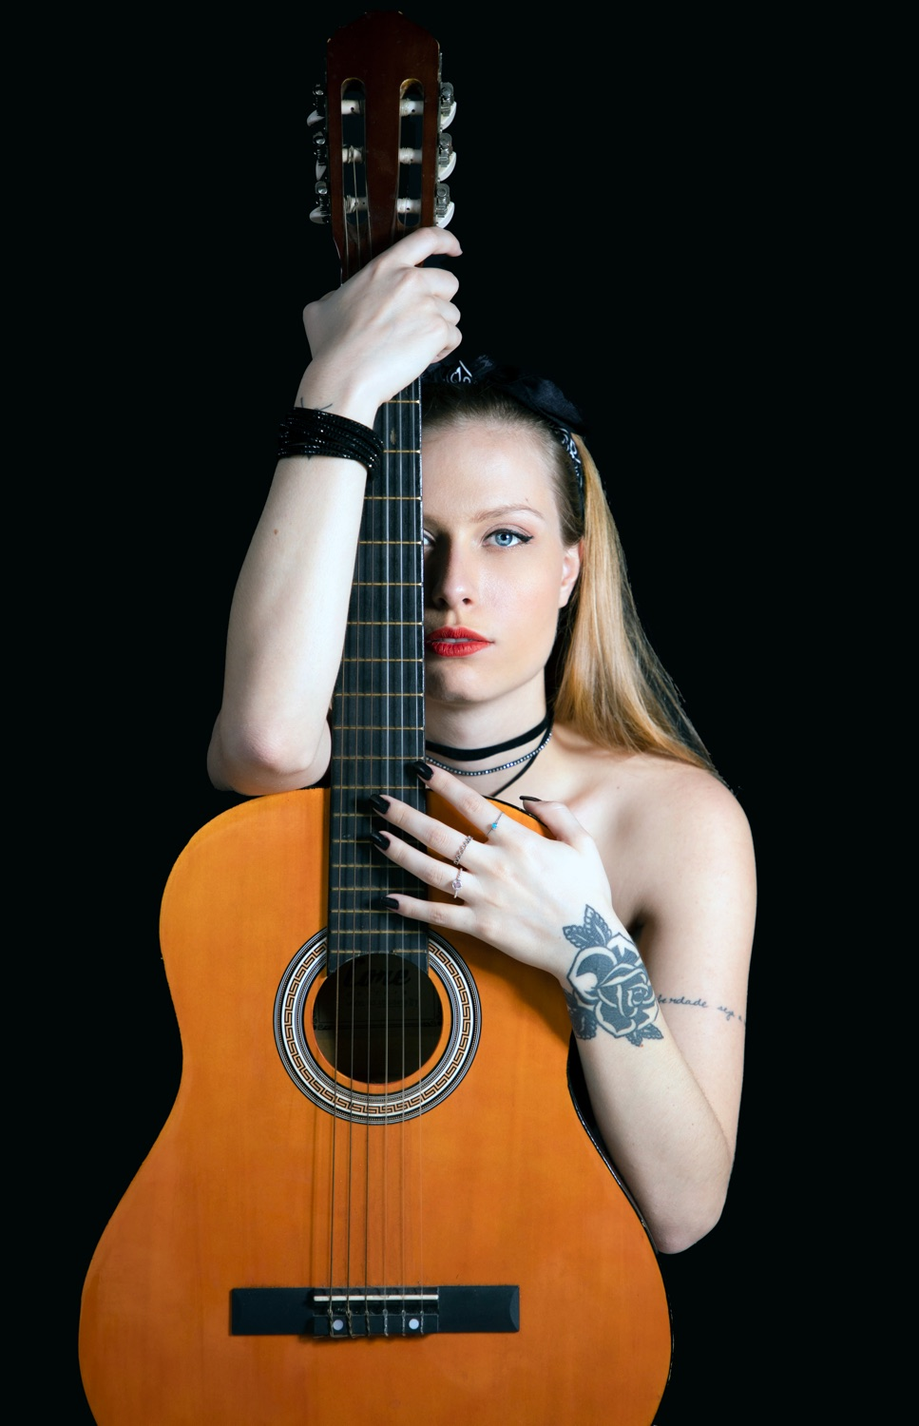
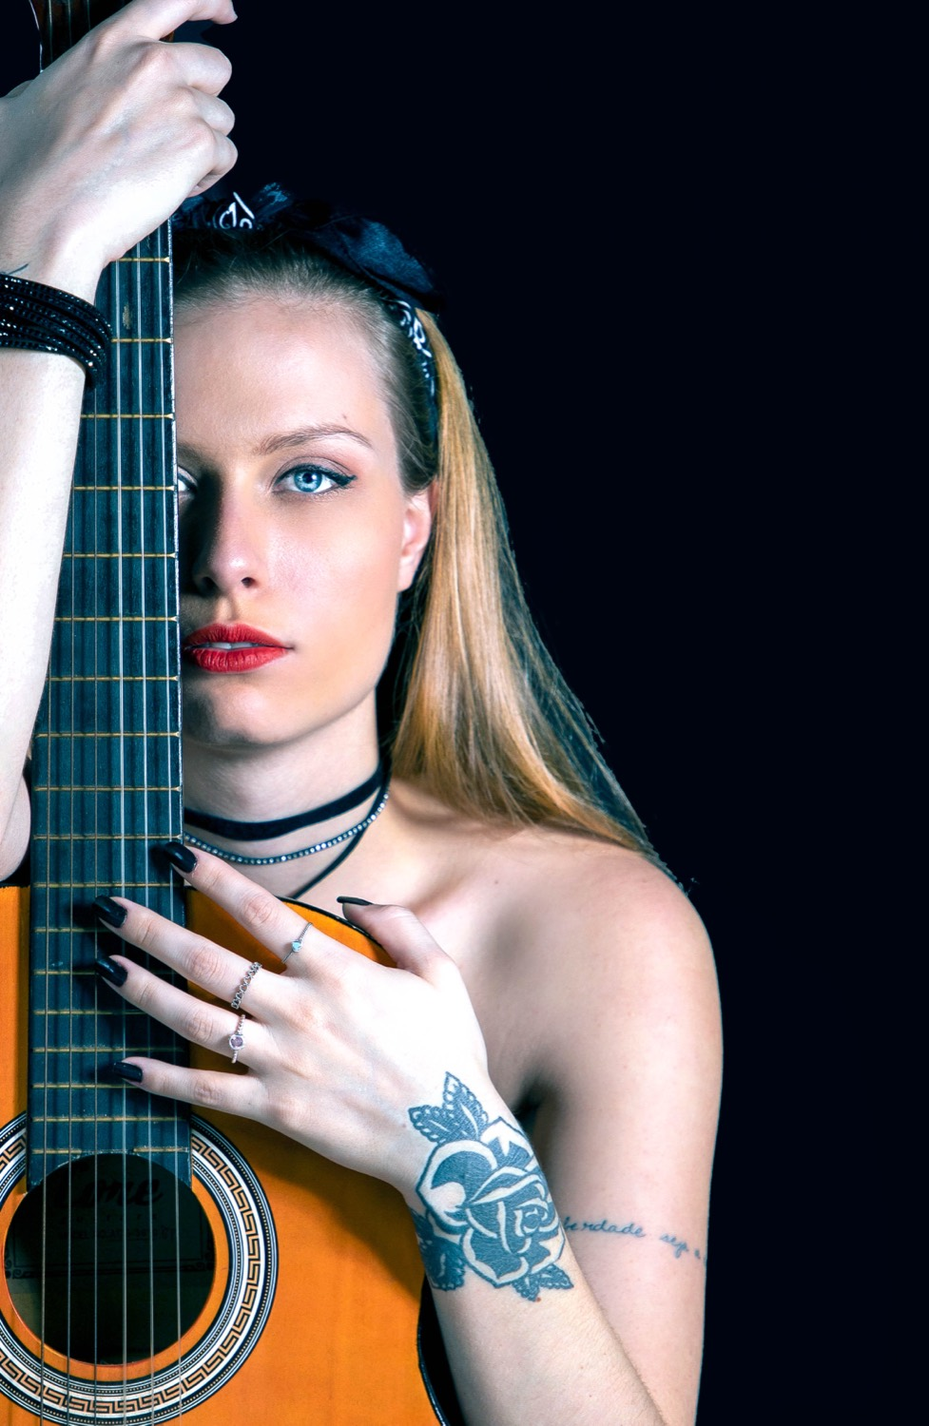
Manual: áudios e fotos do Fábio aplicados
- Abertura "Antes de tudo" reescrita com a história real dele (pai arquiteto,
  faculdade de arquitetura, construção civil, curso e 10+ anos de profissão)
- Estudo de caso do vestido verde: as 4 decisões (reflexo, simetria, linhas, cor)
- Estudo de caso da luz: retrato do Júnior + 4 decisões + Hora de praticar
- Cap. 12: retrato de posicionamento + 4 decisões
- Cap. 13: externa em dia nublado + 4 decisões
- Cap. 5 luz de janela, cap. 6 luz dura e cap. 14 movimento com fotos dele
- Capa nova do manual
- /tecnicas/: exemplos reais em longa exposição, zooming e dupla exposição
- Restam só os 3 blocos de @VIDEO (opcionais)

diff --git a/manual/index.html b/manual/index.html
@@ -23,7 +23,7 @@
 
   /* CAPA */
   .cover{ min-height:88vh; display:flex; flex-direction:column; justify-content:flex-end; padding:40px 22px 56px; position:relative; overflow:hidden;
-    background:linear-gradient(180deg,rgba(11,17,28,.35),rgba(11,17,28,.45) 40%,rgba(11,17,28,.92)),url('/img/cover.jpg'); background-size:cover; background-position:50% 22%; }
+    background:linear-gradient(180deg,rgba(11,17,28,.35),rgba(11,17,28,.45) 40%,rgba(11,17,28,.92)),url('/img/capa-manual.jpg'); background-size:cover; background-position:50% 32%; }
   .cover .in{ max-width:760px; margin:0 auto; width:100%; }
   .cover .eyebrow{ font-size:11px;letter-spacing:.3em;text-transform:uppercase;color:var(--gold) }
   .cover h1{ font-family:'Cormorant Garamond',serif; font-weight:500; font-size:clamp(27px,6.4vw,60px); line-height:1.06; color:#fff; margin:14px 0 0; padding-right:6px }
@@ -147,17 +147,20 @@
       <h1>O Manual Que Não<br>Veio na Caixa</h1>
       <div class="sub">Aprender a ver, antes de aprender a fotografar</div>
       <div class="by"><b>Fábio Dombrate</b> · Elegância com propósito.</div>
-      <div class="rt">18 min de leitura &nbsp;·&nbsp; role para começar ↓</div>
+      <div class="rt">20 min de leitura &nbsp;·&nbsp; role para começar ↓</div>
     </div>
   </header>
 
-  <div class="rwrap front"><p><em>Fábio, este é o ebook tomando forma. Onde aparecer um bloco tracejado, falta algo seu: um áudio, um vídeo ou uma foto. É só me mandar que a gente encaixa, e o bloco vira o conteúdo real, na sua voz.</em></p>
+  <div class="rwrap front"><p><em>Fábio, os teus áudios e as tuas fotos já estão dentro. Os blocos tracejados que sobraram são só os vídeos, que são opcionais e entram quando você quiser gravar.</em></p>
 <h2 class="plain">Antes de tudo</h2>
-<div class="slot audio"><div class="slot-l"><span class="ic">🎙</span> Áudio do Fábio · <em>falta você</em></div><p>me manda um áudio de ~3 min contando a sua história: por que fotografia, o olhar do seu pai, o que fotografar significa pra você. A carta abaixo é um rascunho meu; com o seu áudio ela vira a sua história de verdade.</p></div>
 <p>Toda câmera vem com um manual na caixa. Aquele livrinho de tabelas e siglas que ninguém lê até o fim, e que ensina onde ficam os botões sem nunca explicar a única coisa que importa: <strong>como enxergar</strong>.</p>
 <p>Este é o outro manual. O que não veio na caixa.</p>
 <p>Ele não vai te transformar em fotógrafo porque nenhum livro faz isso. Mas vai te entregar o que quase ninguém te conta no começo, que fotografar é, antes de qualquer coisa, um jeito de olhar o mundo. A câmera é só a ferramenta. O olhar é seu.</p>
-<p>Eu demorei anos pra entender isso. Comprei equipamento, troquei de câmera, li ficha técnica como quem procura um atalho. As fotos continuavam sem alma. Até o dia em que percebi que o problema nunca esteve na câmera. Estava em mim, que ainda não tinha aprendido a ver.</p>
+<p>Comigo isso começou cedo. Meu pai era arquiteto e tinha uma veia artística muito forte. O mundo dele era cercado de beleza, estética e arte, e eu cresci no meio disso. Ele me levava a encontros e exposições, e um dos hobbies dele era justamente a fotografia. Eu adorava pegar a câmera dele, brincar, olhar pelo visor. Aquilo me fascinava, e acho que foi ali, sem eu perceber, que a fotografia entrou na minha vida.</p>
+<p>Talvez por influência dele, acabei entrando na faculdade de arquitetura. Eu gostava daquele universo, mas entre todas as matérias teve uma que me chamou a atenção de um jeito diferente: fotografia. Era onde eu me sentia em casa. Adorava fazer os trabalhos, sair para fotografar, e percebia que aquilo despertava em mim algo que nenhuma outra matéria despertava.</p>
+<p>Mesmo assim, a vida me levou por outro caminho. Trabalhei muitos anos com construção civil, seguindo carreira e construindo a minha vida, mas com a sensação de que faltava alguma coisa. Até o dia em que resolvi comprar uma câmera e me matricular num curso profissional de fotografia. Foi aí que tudo começou a mudar. Quanto mais eu fotografava, mais aquela paixão crescia, até chegar o momento em que eu não queria mais que a fotografia fosse apenas um hobby. Eu queria que ela fosse o meu caminho. E foi isso que eu fiz.</p>
+<p>Hoje, depois de mais de dez anos fotografando profissionalmente, a fotografia faz parte de quem eu sou. O mais bonito é que eu ainda sinto a mesma curiosidade de quando pegava a câmera do meu pai. Ainda quero aprender, experimentar, criar, descobrir novas formas de fotografar e, principalmente, novas formas de olhar.</p>
+<p>Talvez seja justamente isso que mais me encanta. Porque não importa quantos anos se passem, sempre existe uma nova forma de olhar.</p>
 <p>Fotografia, pra mim, é eternizar o presente. É guardar a beleza do meu tempo e mostrar às próximas gerações como era o meu olhar sobre o mundo. Se este livro fizer você se apaixonar por isso, ele cumpriu o que veio fazer.</p>
 <p>Vamos aprender a ver.</p>
 <p><em>Fábio</em></p>
@@ -194,21 +197,25 @@
 <hr>
 <h2 class="plain">Estudo de caso: o olhar</h2>
 <p>Antes de mudar de parte, um exemplo de verdade. Uma foto minha, e as decisões por trás dela.</p>
-<figure><img loading="lazy" src="/img/arqvestido.jpg" alt="O vestido verde: linhas, reflexo e simetria conduzindo o olhar."><figcaption>O vestido verde: linhas, reflexo e simetria conduzindo o olhar.</figcaption></figure>
-<div class="slot audio"><div class="slot-l"><span class="ic">🎙</span> Áudio do Fábio · <em>falta você</em></div><p>me conta as 4 decisões dessa foto (o vestido verde): a intenção (o que você queria dizer), a luz, o momento que você esperou, e a decisão que fez a diferença.</p></div>
-<p class="prov">"Nesta foto eu queria transmitir [intenção]. Usei as linhas do lugar para conduzir o olho até ela, e esperei o instante em que [o momento]. A decisão que mudou tudo foi [a decisão]."</p>
+<figure><img loading="lazy" src="/img/arqvestido.jpg" alt="O vestido verde: reflexo, linhas e cor conduzindo o olhar."><figcaption>O vestido verde: reflexo, linhas e cor conduzindo o olhar.</figcaption></figure>
+<p><strong>O reflexo.</strong> Em vez de fotografar a modelo apenas contra o prédio, posicionei a câmera para que o vidro criasse uma segunda versão dela. O reflexo deixa de ser fundo e passa a fazer parte da fotografia.</p>
+<p><strong>A simetria sem centralizar.</strong> Usei as linhas verticais da arquitetura e a divisão do vidro para criar equilíbrio entre a modelo e o reflexo. Isso organiza a imagem sem cair na simetria óbvia demais.</p>
+<p><strong>As linhas conduzindo o olho.</strong> As linhas do piso, do vidro e da fachada criam profundidade e levam o olhar até ela. O cenário não está ali por acaso, ele direciona a leitura da foto.</p>
+<p><strong>A cor.</strong> Escolhi o enquadramento pensando também no contraste. O verde do vestido ganha força contra os tons neutros e frios do vidro, do concreto e do metal, e é isso que faz a modelo se destacar num cenário cheio de informação.</p>
+<p>Nenhuma dessas quatro decisões tem a ver com a câmera. Todas têm a ver com o que eu escolhi ver antes de disparar.</p>
 <hr></div><section class="popen" style="background-image:linear-gradient(180deg,rgba(11,17,28,.35),rgba(11,17,28,.85)),url('/img/elegante.jpg')">
       <div class="po-in"><div class="po-eye">Parte 2</div><h1 class="po-t">A luz como matéria-prima</h1><p class="po-l">Se o olhar decide o que fotografar, a luz decide como. Este é o assunto que eu mais amo, e o que mais transforma uma foto quando você começa a dominá-lo.</p></div></section><div class="rwrap"><h2><span class="cn">5</span>Um estúdio na sua janela</h2>
 <p>Você não precisa de equipamento caro para fazer um retrato bonito. A melhor luz suave que existe provavelmente está na sua sala agora.</p>
 <p>Uma janela grande, sem sol direto batendo, é uma fonte de luz macia e generosa. Envolve o rosto, cria sombra delicada, valoriza a pele. É praticamente um estúdio que não custou nada.</p>
 <p>Posicione a pessoa de lado para a janela, não de frente. A luz vem de um lado, o outro fica numa sombra suave, e isso cria volume, aquele ar de profundidade. Se a sombra ficou escura demais, ponha algo branco do outro lado, uma cartolina, uma parede clara, para devolver um pouco de luz.</p>
 <p class="convite"><strong>Hora de praticar.</strong> Sente alguém de lado para uma janela iluminada. Fotografe. Depois ponha uma cartolina branca do lado escuro do rosto e fotografe de novo. A segunda foto tem a sombra mais viva. Isso é iluminação de estúdio, feita com o que você tem em casa.</p>
-<figure><img loading="lazy" src="/img/business.jpg" alt="Luz de janela, de lado. Um estúdio que não custou nada."><figcaption>Luz de janela, de lado. Um estúdio que não custou nada.</figcaption></figure>
+<figure><img loading="lazy" src="/img/luz-janela.jpg" alt="Luz de janela, de lado. Um estúdio que não custou nada."><figcaption>Luz de janela, de lado. Um estúdio que não custou nada.</figcaption></figure>
 <div class="slot video"><div class="slot-l"><span class="ic">🎥</span> Vídeo do Fábio · <em>falta você</em></div><p>se rolar, grava um mini-tutorial de 2-3 min montando a luz de janela com um rebatedor. Entra aqui no ebook e já vira aula do teu curso.</p></div>
 <h2><span class="cn">6</span>A hora certa do dia</h2>
 <p>A luz das primeiras e das últimas horas do dia, a hora dourada, é baixa, quente e macia. É a luz preferida de quase todo fotógrafo, e não por acaso.</p>
 <p>O meio-dia, com o sol a pino, é o oposto: luz alta e dura, que cava olheiras e estoura os realces da pele. Se você pode escolher a hora, prefira o fim da tarde. Se não pode, procure uma sombra aberta, embaixo de um toldo ou de uma árvore, e ganhe uma luz mais difusa de graça.</p>
 <p>Mas isso não significa que a luz dura seja ruim. Ela só precisa ser usada com intenção. É uma luz que cria sombras marcadas, muito contraste, textura e sensação de volume. Funciona muito bem em fotografia de arquitetura, preto e branco, ensaios mais dramáticos e até para destacar definição muscular. Na fotografia, não existe apenas luz boa ou ruim. Existe a luz certa para o resultado que você quer criar.</p>
+<figure><img loading="lazy" src="/img/pb-luzdura.jpg" alt="Luz dura, preto e branco e sombra marcada. A mesma luz que atrapalha um retrato suave é a que constrói este."><figcaption>Luz dura, preto e branco e sombra marcada. A mesma luz que atrapalha um retrato suave é a que constrói este.</figcaption></figure>
 <p>Reparar na hora do dia é entender a luz antes que ela vire um problema e saber transformá-la em solução. É a diferença entre a foto que aconteceu com você e a foto que você escolheu.</p>
 <blockquote class="pullq">Fotógrafo bom não briga com a luz. Ele escolhe.</blockquote>
 <h2><span class="cn">7</span>Uma luz só</h2>
@@ -218,10 +225,12 @@
 <hr>
 <h2 class="plain">Estudo de caso: a luz num retrato</h2>
 <p>O formato mais forte do livro: eu destrincho a luz de um retrato meu, decisão por decisão, e depois você repete na sua câmera.</p>
-<div class="slot foto"><div class="slot-l"><span class="ic">🖼</span> Foto do Fábio · <em>falta você</em></div><p>o retrato do Júnior (escolhido pelo Fábio). Falta só o arquivo em alta resolução.</p></div>
-<div class="slot audio"><div class="slot-l"><span class="ic">🎙</span> Áudio do Fábio · <em>falta você</em></div><p>as 4 decisões do retrato do Júnior: a intenção, de onde veio a luz e por que uma fonte só, a sombra que você deixou de propósito, e o gesto que você esperou.</p></div>
-<p class="prov">"Eu queria que ele parecesse [intenção]. Uma luz só, vindo do lado, porque a sombra é o que dá volume. Deixei metade do rosto na sombra de propósito, e esperei ele [o gesto]."</p>
-<p>A receita prática (ajustes da câmera + esquema de luz desenhado) entra logo depois do seu relato. Essa parte eu monto.</p>
+<figure><img loading="lazy" src="/img/retrato-junior.jpg" alt="O retrato do Júnior: uma luz de lado, a sombra mantida e o fundo entregue à escuridão."><figcaption>O retrato do Júnior: uma luz de lado, a sombra mantida e o fundo entregue à escuridão.</figcaption></figure>
+<p><strong>Luz lateral.</strong> Posicionei a luz de lado para criar volume e destacar os traços do rosto. De frente, o rosto achata. De lado, ele ganha relevo.</p>
+<p><strong>Sombras mantidas.</strong> Não tentei preencher a sombra. Mantive para aumentar o contraste e dar mais profundidade ao retrato. Meio rosto no escuro aqui é escolha, não erro.</p>
+<p><strong>Fundo escuro.</strong> Escolhi um fundo preto para eliminar distrações e concentrar toda a atenção no rosto.</p>
+<p><strong>Close.</strong> Aproximei o enquadramento para valorizar o olhar, a expressão e a textura.</p>
+<p class="convite"><strong>Hora de praticar.</strong> Apague as luzes do ambiente e acenda uma fonte só, de lado, perto do rosto. Afaste a pessoa da parede, para o fundo cair na escuridão sozinho. Fotografe o rosto inteiro, depois chegue mais perto e fotografe só o olhar. Compare as duas e veja o que o close fez com a expressão.</p>
 <hr></div><section class="popen" style="background-image:linear-gradient(180deg,rgba(11,17,28,.35),rgba(11,17,28,.85)),url('/img/contempla.jpg')">
       <div class="po-in"><div class="po-eye">Parte 3</div><h1 class="po-t">A câmera a serviço do olhar</h1><p class="po-l">Agora sim, a câmera. Não como protagonista, mas como aliada. Estes são os poucos recursos que, quando você domina, param de atrapalhar e passam a libertar o seu olhar.</p></div></section><div class="rwrap"><h2><span class="cn">8</span>Os três pilares da exposição</h2>
 <p>Toda fotografia começa com luz. Para controlar como essa luz será registrada pela câmera, existem três ajustes fundamentais: velocidade do obturador, abertura do diafragma e ISO.</p>
@@ -281,19 +290,29 @@
 <p>Abertura aberta para separar do fundo, foco no olho, luz de janela suave vindo de lado. Fotografe na altura dos olhos dela. E converse, faça rir, distraia, porque o retrato verdadeiro quase sempre acontece no intervalo entre as poses, quando ela relaxa e esquece a câmera.</p>
 <p>Sua paciência é o que traz a foto real. O resto é ajuste.</p>
 <figure><img loading="lazy" src="/img/violao.jpg" alt="Um retrato é fotografar quem a pessoa é, não só como ela parece."><figcaption>Um retrato é fotografar quem a pessoa é, não só como ela parece.</figcaption></figure>
-<div class="slot foto"><div class="slot-l"><span class="ic">🖼</span> Foto do Fábio · <em>falta você</em></div><p>a foto do gaúcho (escolhida pelo Fábio), como retrato de posicionamento. Falta só o arquivo em alta resolução.</p></div>
-<div class="slot audio"><div class="slot-l"><span class="ic">🎙</span> Áudio do Fábio · <em>falta você</em></div><p>as 4 decisões desse ensaio (intenção, luz, momento, decisão).</p></div>
+<h3>Um retrato de posicionamento, decisão por decisão</h3>
+<figure><img loading="lazy" src="/img/retrato-posicionamento.jpg" alt="Retrato de posicionamento: roupa, pose, luz e fundo dizendo a mesma coisa."><figcaption>Retrato de posicionamento: roupa, pose, luz e fundo dizendo a mesma coisa.</figcaption></figure>
+<p><strong>A roupa.</strong> Terno e gravata, para transmitir autoridade e profissionalismo. A roupa é a primeira frase do retrato e fala antes do rosto.</p>
+<p><strong>A pose.</strong> Corpo inclinado para a frente, olhar direto na câmera. É o que passa confiança.</p>
+<p><strong>A luz.</strong> Lateral, com contraste, para esculpir o rosto e dar força ao retrato.</p>
+<p><strong>O fundo.</strong> Preto, para eliminar distrações e concentrar toda a atenção na pessoa.</p>
+<p>Repare que as quatro decisões dizem a mesma coisa. Quando roupa, pose, luz e fundo apontam para a mesma direção, o retrato deixa de ser uma foto bonita e passa a ser um posicionamento.</p>
 <div class="slot video"><div class="slot-l"><span class="ic">🎥</span> Vídeo do Fábio · <em>falta você</em></div><p>opcional, mas ouro: um mini-tutorial de como você dirige a pose e deixa a pessoa à vontade.</p></div>
-<p class="prov">"Esse cliente precisava passar [intenção]. Escolhi [luz/enquadramento] pra construir isso, e a virada foi [decisão]."</p>
 <h2><span class="cn">13</span>Pouca luz</h2>
 <p>Ambiente escuro não é inimigo, é clima.</p>
 <p>Abra a lente ao máximo, mantenha uma velocidade que não deixe a foto tremer, e suba o ISO sem culpa. Uma foto com um pouco de granulado é uma foto. Uma foto tremida, ou o momento perdido por medo, não são.</p>
 <p>E use a luz que já está ali: um palco, uma vela, um letreiro, uma janela iluminada. Aproxime a pessoa dessas fontes e deixe a escuridão ao redor trabalhar a favor da imagem.</p>
-<div class="slot foto"><div class="slot-l"><span class="ic">🖼</span> Foto do Fábio · <em>falta você</em></div><p>uma foto sua em situação difícil de luz: pouca luz, festa, externa complicada.</p></div>
-<div class="slot audio"><div class="slot-l"><span class="ic">🎙</span> Áudio do Fábio · <em>falta você</em></div><p>como você resolveu essa situação, as 4 decisões.</p></div>
+<h3>Quando a luz não é a que você queria</h3>
+<figure><img loading="lazy" src="/img/retrato-externo.jpg" alt="Externa em dia nublado: preto e branco, as luzes do fundo na composição e a fumaça esperada."><figcaption>Externa em dia nublado: preto e branco, as luzes do fundo na composição e a fumaça esperada.</figcaption></figure>
+<p><strong>A luz.</strong> O dia estava nublado, com luz suave e sem muita direção. Em vez de brigar com isso, aproveitei: uma luz assim mantém o rosto equilibrado com o fundo, sem estouro e sem sombra dura.</p>
+<p><strong>O preto e branco.</strong> As cores não estavam ajudando a fotografia. Tirei a cor para simplificar a cena e deixar o contraste e a expressão fazerem o trabalho.</p>
+<p><strong>O fundo.</strong> Era um fundo meio confuso, mas tinha vários pontos de luz. Mudei o meu posicionamento até que essas luzes virassem parte da composição em vez de bagunça.</p>
+<p><strong>A espera.</strong> A cena ainda precisava de alguma coisa. Esperei o momento exato em que ele soltou a fumaça e fotografei. Foi ela que trouxe movimento e deu mais força para a imagem.</p>
+<p>Nenhuma dessas decisões mudou a luz do lugar. Elas mudaram o que eu fiz com ela.</p>
 <h2><span class="cn">14</span>Movimento</h2>
 <p>Movimento é uma escolha, não um acidente.</p>
 <p>Velocidade rápida congela o instante, o pulo, a corrida, o gesto. Velocidade lenta, com a câmera bem firme, transforma movimento em poesia: a água vira seda, as luzes viram riscos. O truque é decidir antes qual das duas histórias você quer contar, e ajustar a câmera para servir a essa decisão.</p>
+<figure><img loading="lazy" src="/img/longa-exposicao.jpg" alt="Velocidade lenta, câmera firme: os faróis deixam de ser pontos e viram linha."><figcaption>Velocidade lenta, câmera firme: os faróis deixam de ser pontos e viram linha.</figcaption></figure>
 <p>Se quiser ir além, o extra <em>7 Técnicas Fotográficas para Explorar na Prática</em> mostra, passo a passo, como transformar movimento e tempo em linguagem: panning, longa exposição, light painting e mais.</p>
 <hr></div><section class="popen" style="background-image:linear-gradient(180deg,rgba(11,17,28,.35),rgba(11,17,28,.85)),url('/img/casal.jpg')">
       <div class="po-in"><h1 class="po-t">Depois do clique</h1></div></section><div class="rwrap"><h2><span class="cn">15</span>A edição honesta</h2>

diff --git a/tecnicas/index.html b/tecnicas/index.html
@@ -147,7 +147,7 @@
       <h1>7 Técnicas Fotográficas<br>para Explorar na Prática</h1>
       <div class="sub">Movimento, luz e tempo transformados em linguagem</div>
       <div class="by"><b>Fábio Dombrate</b> · Um extra do Manual Que Não Veio na Caixa.</div>
-      <div class="rt">6 min de leitura &nbsp;·&nbsp; role para começar ↓</div>
+      <div class="rt">7 min de leitura &nbsp;·&nbsp; role para começar ↓</div>
     </div>
   </header>
 
@@ -172,6 +172,7 @@
 <h2><span class="cn">2</span>Longa exposição</h2>
 <p>Na longa exposição, o obturador permanece aberto por mais tempo, permitindo registrar movimentos que normalmente nossos olhos não enxergam daquela maneira.</p>
 <p>A água pode se transformar em uma superfície suave, os faróis dos carros viram rastros luminosos e pessoas em movimento podem praticamente desaparecer da cena.</p>
+<figure><img loading="lazy" src="/img/longa-exposicao.jpg" alt="Ponte à noite: o obturador aberto transforma o tráfego em faixas contínuas de luz."><figcaption>Ponte à noite: o obturador aberto transforma o tráfego em faixas contínuas de luz.</figcaption></figure>
 <div class="ficha"><div class="fi"><span class="fk">Velocidade</span><span class="fv">vários segundos ou até minutos</span></div><div class="fi"><span class="fk">Tripé</span><span class="fv">indispensável</span></div><div class="fi"><span class="fk">Onde brilha</span><span class="fv">paisagens, cachoeiras, cidade à noite, céu estrelado e rastros de luz</span></div></div>
 <p><strong>Como fazer.</strong> Use velocidades de vários segundos ou até minutos. Como qualquer movimento da câmera ficará registrado, o tripé é praticamente indispensável. Em ambientes muito claros, um filtro ND pode ser necessário para reduzir a quantidade de luz que chega ao sensor.</p>
 <p class="segredo"><strong>O segredo</strong> Longa exposição não é simplesmente usar uma velocidade baixa. É decidir como o movimento será registrado ao longo do tempo.</p>
@@ -184,12 +185,14 @@
 <h2><span class="cn">4</span>Zooming</h2>
 <p>O zooming cria linhas que parecem explodir do centro da fotografia. O efeito acontece quando alteramos a distância focal da lente enquanto o obturador está aberto.</p>
 <p>Em vez de congelar completamente a cena, a câmera registra o movimento do zoom durante a exposição.</p>
+<figure><img loading="lazy" src="/img/zooming.jpg" alt="Zooming: a planta continua reconhecível no centro enquanto o resto explode para fora."><figcaption>Zooming: a planta continua reconhecível no centro enquanto o resto explode para fora.</figcaption></figure>
 <div class="ficha"><div class="fi"><span class="fk">Velocidade</span><span class="fv">1/10s a 1/30s</span></div><div class="fi"><span class="fk">Equipamento</span><span class="fv">lente zoom</span></div><div class="fi"><span class="fk">Onde brilha</span><span class="fv">retratos criativos, flores, arquitetura, luzes e cidade</span></div></div>
 <p><strong>Como fazer.</strong> Use uma lente zoom e escolha uma velocidade relativamente baixa, como 1/10s, 1/15s ou 1/30s. No momento do disparo, gire o anel de zoom de maneira contínua. O ponto que você deseja manter mais reconhecível deve ficar perto do centro do enquadramento.</p>
 <p class="segredo"><strong>O segredo</strong> Pequenas mudanças na velocidade do obturador e na velocidade com que você gira a lente produzem resultados completamente diferentes. É uma técnica de tentativa e experimentação.</p>
 <h2><span class="cn">5</span>Dupla exposição</h2>
 <p>A dupla exposição combina duas fotografias em uma única imagem. Uma imagem passa a preencher ou a interagir visualmente com a outra.</p>
 <p>Um exemplo clássico é combinar o perfil de uma pessoa com árvores, prédios, montanhas ou alguma textura.</p>
+<figure><img loading="lazy" src="/img/dupla-exposicao.jpg" alt="Dupla exposição: o perfil e o rosto de frente ocupam a mesma imagem sem disputar espaço."><figcaption>Dupla exposição: o perfil e o rosto de frente ocupam a mesma imagem sem disputar espaço.</figcaption></figure>
 <div class="ficha"><div class="fi"><span class="fk">Onde fazer</span><span class="fv">na câmera (modo de múltipla exposição) ou na edição</span></div><div class="fi"><span class="fk">Tripé</span><span class="fv">não precisa</span></div><div class="fi"><span class="fk">Onde brilha</span><span class="fv">retratos conceituais, fotografia artística e projetos autorais</span></div></div>
 <p><strong>Como fazer.</strong> Pense primeiro na imagem principal e depois procure uma segunda imagem que complemente sua forma ou sua história. Áreas claras e escuras são especialmente importantes, porque determinam como as duas fotografias vão se misturar. Algumas câmeras fazem isso no próprio equipamento, pelo modo de múltipla exposição. Também é possível construir o resultado depois, na edição.</p>
 <p class="segredo"><strong>O segredo</strong> Não basta juntar duas fotografias bonitas. As duas imagens precisam funcionar juntas visualmente ou contar uma história.</p>
